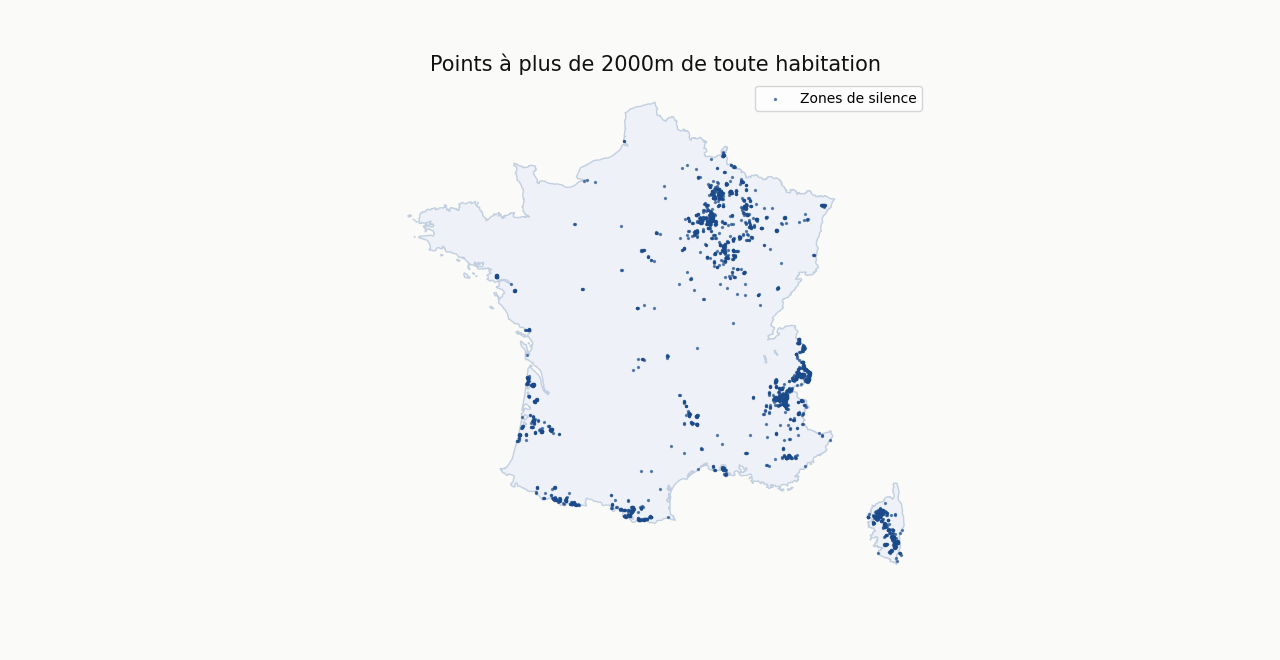
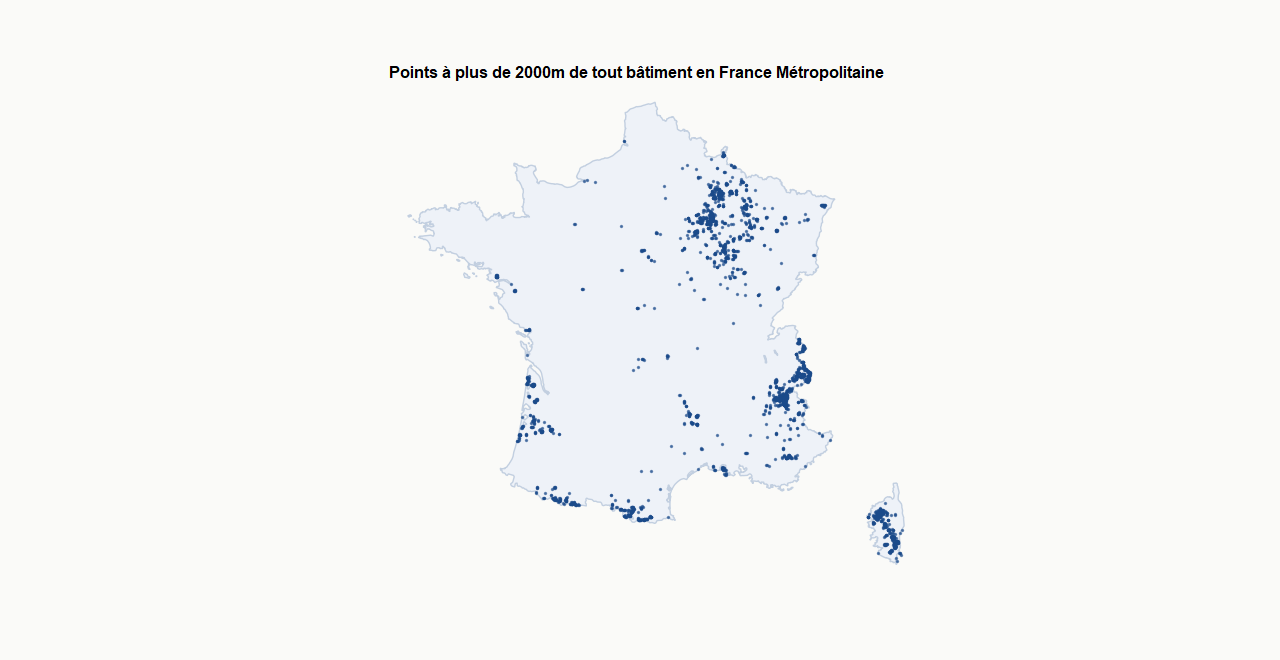
corrections

Changed region(s): [[0.2812, 0.0606, 0.7188, 0.1818]]

diff --git a/index.html b/index.html
@@ -107,6 +107,7 @@
       Attention, si en fin de calcul, je n'ai que des distances inférieures à 2km, alors il faut utiliser un rayon
       plus petit, par exemple 1800m...
     </p>
+    <img src="assets/images/image_2.png" alt="description" style="display:block; margin:0 auto; width:600px; max-width:100%;">
 
     <h2>Étape 2 — Extraction massive des données</h2>
     <p>
@@ -132,14 +133,12 @@
       dizaines de secondes sur un ordinateur classique. On obtient alors, pour chaque point du maillage, sa
       distance à la trace humaine la plus proche. Logiquement, les meilleurs résultats se
       regroupent par zones géographiques : si un point est à 10 km d'une route, son voisin à
-      50 m le sera presque tout autant.
-    </p>
-    <img src="assets/images/image_2.png" alt="description" style="display:block; margin:0 auto; width:600px; max-width:100%;">
+      50m le sera presque tout autant.
+      </p>
 
     <h2>Affinage et résultats finaux</h2>
     <p>
-      Le fond de carte national peut montrer ses limites (imprécisions sur les côtes ou les îles
-      dues à la nature fractale des littoraux). Pour pallier cela, je sélectionne les
+      Le fond de carte national peut montrer ses limites (imprécisions sur les côtes ou les îles). Pour pallier cela, je sélectionne les
       15 zones les plus prometteuses pour une vérification manuelle. Un module
       dédié affiche la carte OSM et permet de valider visuellement que le point est bien sur
       la terre ferme.
@@ -148,10 +147,14 @@
 
     <p>
       Une fois la zone validée, on augmente la précision du maillage à 1 mètre
-      pour obtenir la coordonnée exacte. Nous obtenons ainsi la liste des 15 points les plus
+      pour obtenir la coordonnée exacte. 
+  
+      Une fois le point choisi, on disqualifie tous les autres points de la zone.
+      Cela évite que le top soit tout au même endroit ! C'est un choix arbitraire.
+
+      Nous obtenons ainsi la liste des 15 points les plus
       isolés de France métropolitaine. Cette méthode m'a également permis de décliner des
-      classements par région et par département, ainsi que les points les plus isolés des
-      bâtiments uniquement.
+      classements des points les plus isolés des bâtiments. Voir la page correspondante.
     </p>
     <img src="assets/images/image_4.JPG" alt="description" style="display:block; margin:0 auto; width:600px; max-width:100%;">
 